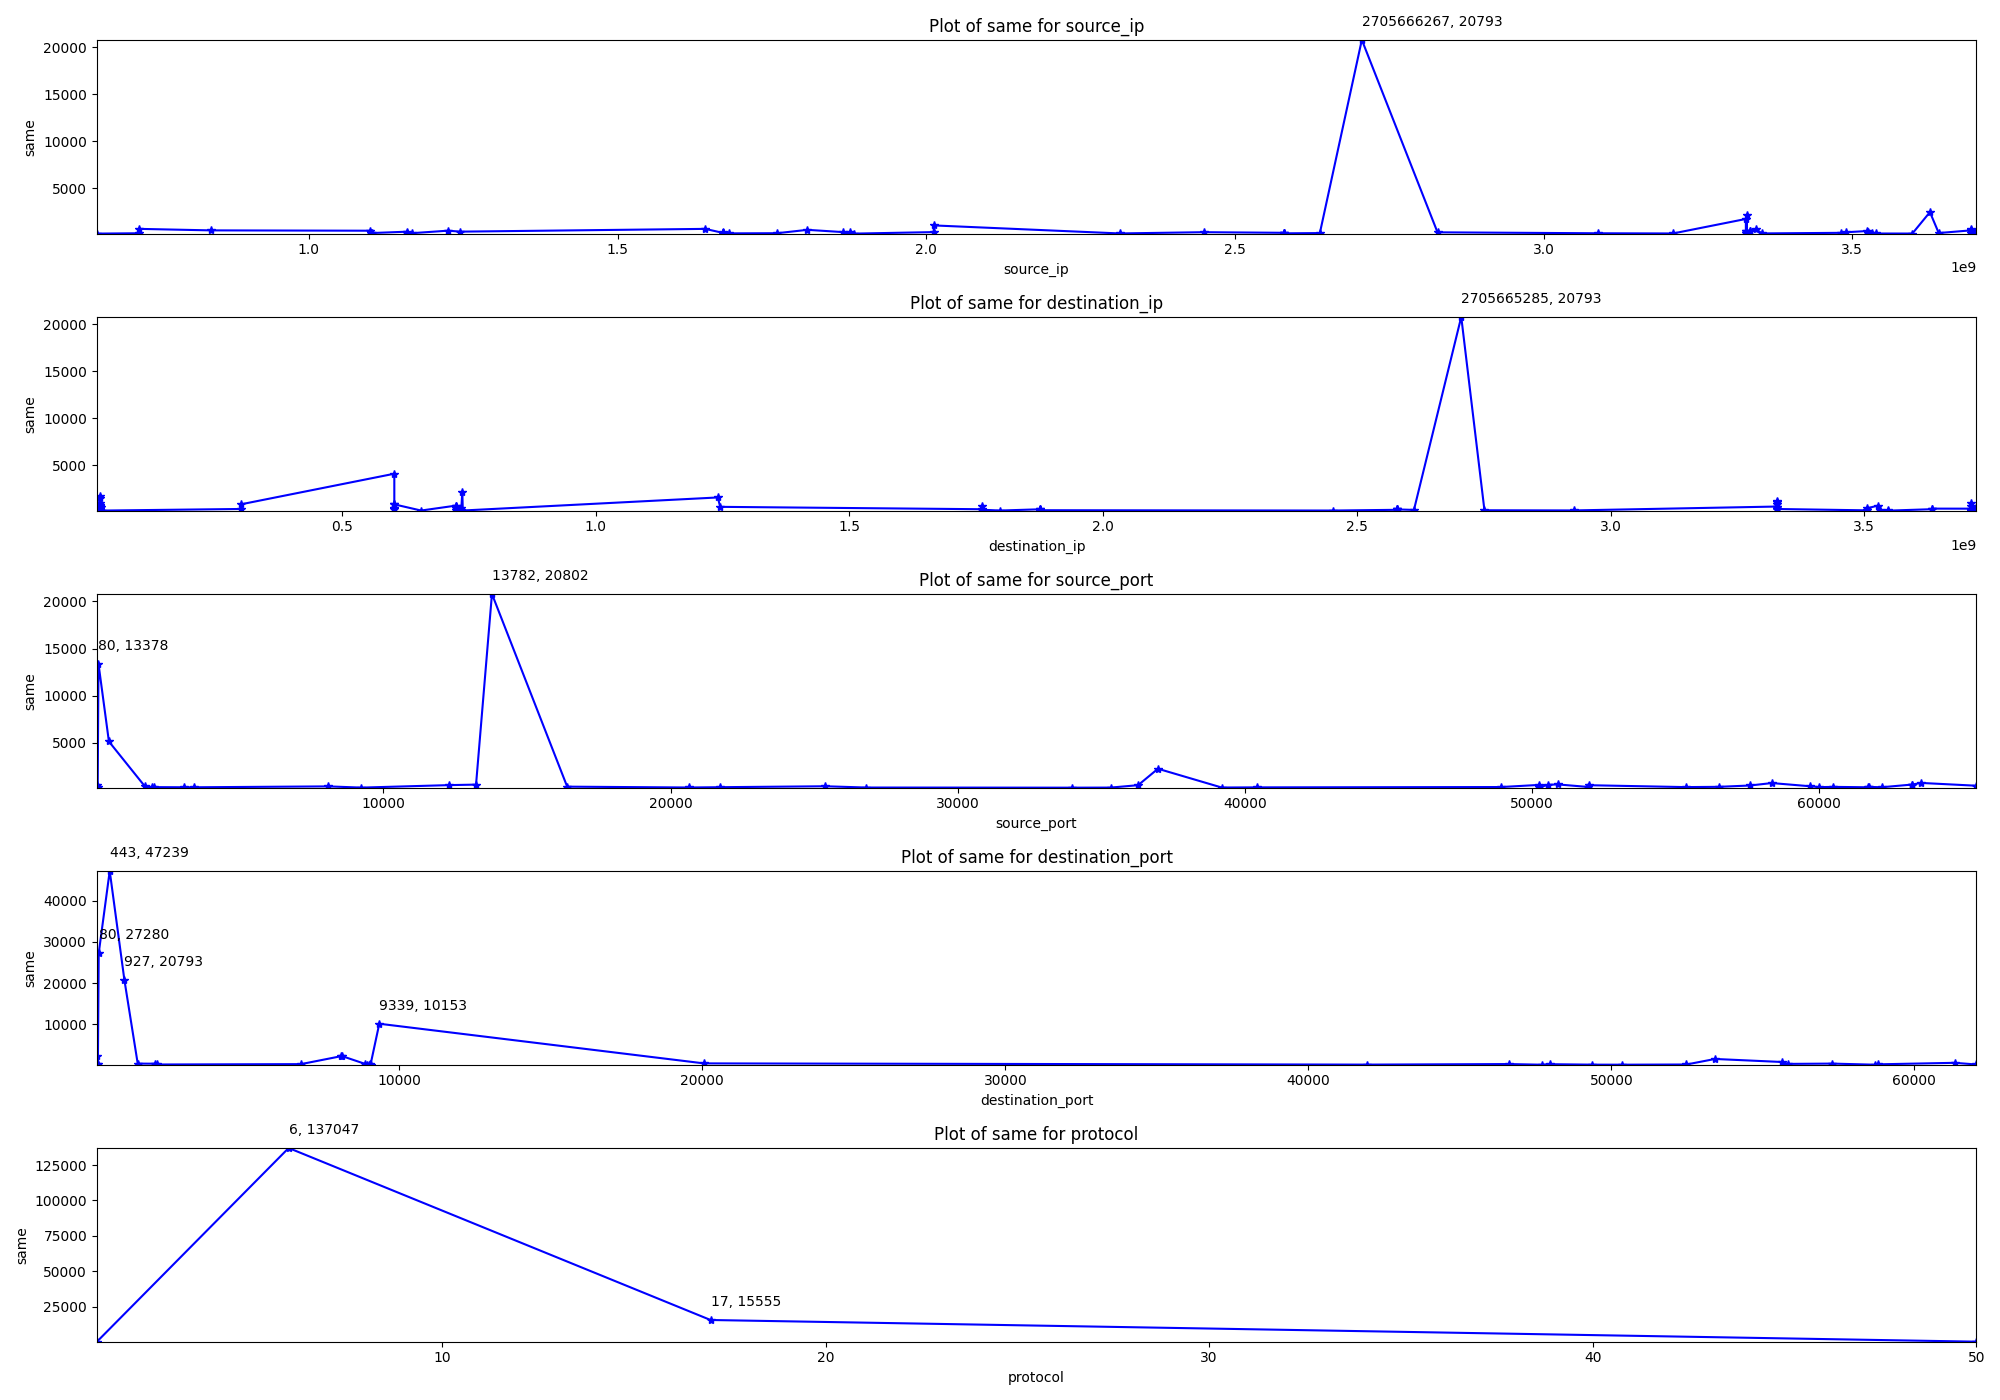
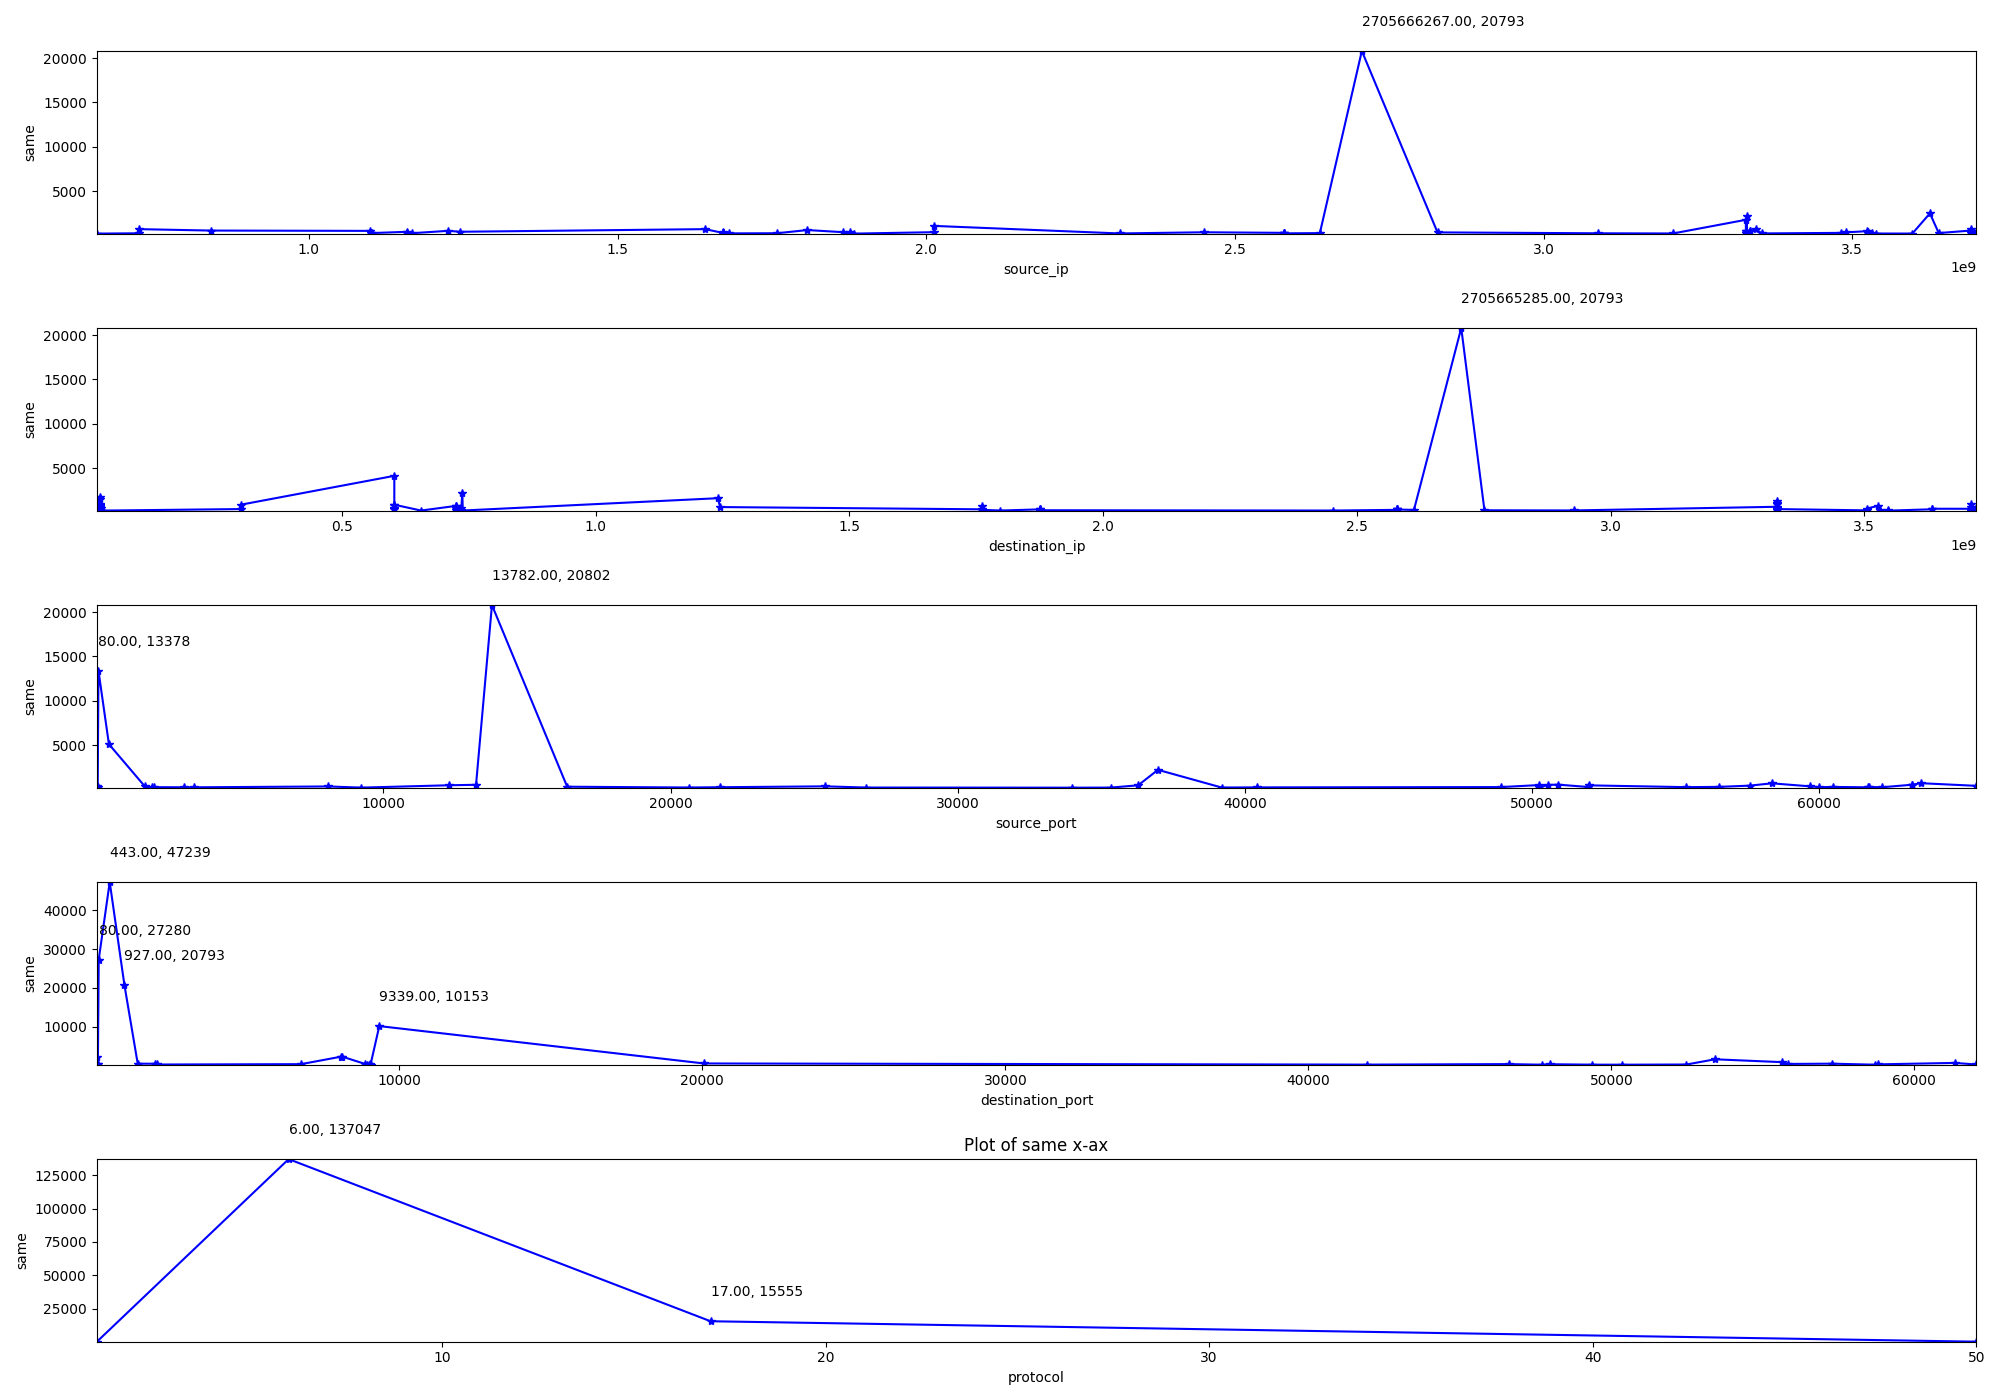
style: py style change

diff --git a/static_lg.py b/static_lg.py
@@ -42,9 +42,9 @@ def load_data_draw(filePath):
     ax.set_ylabel('Destination IP')
     ax.set_zlabel('Source Port')
     # 設定軸顯示範圍
-    ax.set_xlim(np.log2(plot_data['source_ip'].min()+1), np.log2(plot_data['source_ip'].max()))
-    ax.set_ylim(np.log2(plot_data['destination_ip'].min()+1), np.log2(plot_data['destination_ip'].max()))
-    ax.set_zlim(np.log2(plot_data['source_port'].min()+1), np.log2(plot_data['source_port'].max()))
+    ax.set_xlim(np.log2(plot_data['source_ip'].min()), np.log2(plot_data['source_ip'].max()))
+    ax.set_ylim(np.log2(plot_data['destination_ip'].min()), np.log2(plot_data['destination_ip'].max()))
+    ax.set_zlim(np.log2(plot_data['source_port'].min()), np.log2(plot_data['source_port'].max()))
     ax.set_title('Scatter Plot of same trace num (lg)')
     # 新增顏色條
     plt.colorbar(mappable, ax=ax, label='Count')
@@ -63,15 +63,15 @@ def load_data_draw(filePath):
         ax.plot(np.log2(plot_data[col]+1), plot_data['same'], color='blue', marker='*')
         ax.set_xlabel(col)
         ax.set_ylabel('same')
-        ax.set_xlim(np.log2(plot_data[col].min()+1), np.log2(plot_data[col].max()))
+        ax.set_xlim(np.log2(plot_data[col].min()), np.log2(plot_data[col].max()))
         ax.set_ylim(plot_data['same'].min(), plot_data['same'].max())
-        ax.set_title(f'Plot of same for {col}')
         # highlight 次數大於10000的數據
-        for x, y in zip(np.log2(plot_data[col]+1),plot_data['same']):
+        for x, y in zip(np.log2(plot_data[col]),plot_data['same']):
             if y>10000:
-                s = f"{x}, {y}"
-                ax.annotate(s,(x,y),textcoords="offset points",xytext=(0,10))
+                s = f"{x:.2f}, {y}"
+                ax.annotate(s,(x,y),textcoords="offset points",xytext=(0,18))
 
+    ax.set_title('Plot of same x-ax (lg)')
     plt.tight_layout()
     plt.savefig(SaveFigPath2)
     plt.show()

diff --git a/static.py b/static.py
@@ -65,13 +65,13 @@ def load_data_draw(filePath):
         ax.set_ylabel('same')
         ax.set_xlim(plot_data[col].min(), plot_data[col].max())
         ax.set_ylim(plot_data['same'].min(), plot_data['same'].max())
-        ax.set_title(f'Plot of same for {col}')
         # highlight 次數大於10000的數據
         for x, y in zip(plot_data[col],plot_data['same']):
             if y>10000:
-                s = f"{x}, {y}"
-                ax.annotate(s,(x,y),textcoords="offset points",xytext=(0,10))
+                s = f"{x:.2f}, {y}"
+                ax.annotate(s,(x,y),textcoords="offset points",xytext=(0,18))
 
+    ax.set_title('Plot of same x-ax')
     plt.tight_layout()
     plt.savefig(SaveFigPath2)
     plt.show()
